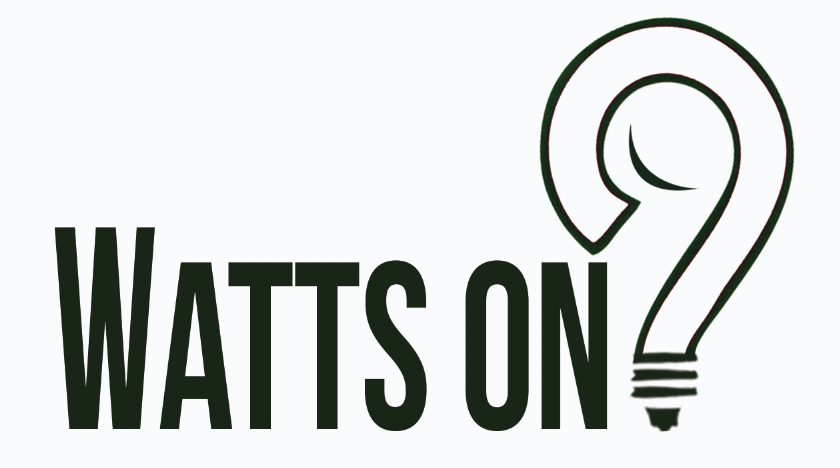
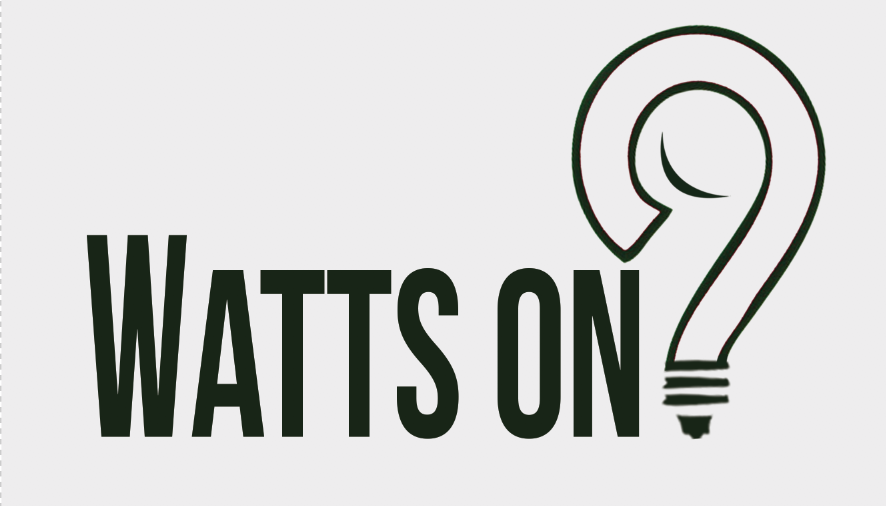
Add new title.png to login view

Changed region(s): [[0.0619, 0.0299, 0.9595, 0.9274]]

diff --git a/login/login.view.html b/login/login.view.html
@@ -1,5 +1,6 @@
 <div class="col-md-6 col-md-offset-3">
-    <h2>Watts On?! Login</h2>
+    <!--<h2>Watts On?! Login</h2>-->
+    <img src="app-content/title.png" height="100px" width="150px">
     <form name="form" ng-submit="vm.login()" role="form">
         <div class="form-group" ng-class="{ 'has-error': form.username.$dirty && form.username.$error.required }">
             <label for="username">Username</label>
@@ -19,13 +20,4 @@
     </form>
 </div>
 
-<script>
-  (function(i,s,o,g,r,a,m){i['GoogleAnalyticsObject']=r;i[r]=i[r]||function(){
-  (i[r].q=i[r].q||[]).push(arguments)},i[r].l=1*new Date();a=s.createElement(o),
-  m=s.getElementsByTagName(o)[0];a.async=1;a.src=g;m.parentNode.insertBefore(a,m)
-  })(window,document,'script','https://www.google-analytics.com/analytics.js','ga');
-
-  ga('create', 'UA-93760359-1', 'auto');
-  ga('send', 'pageview'); 
-</script>
 
